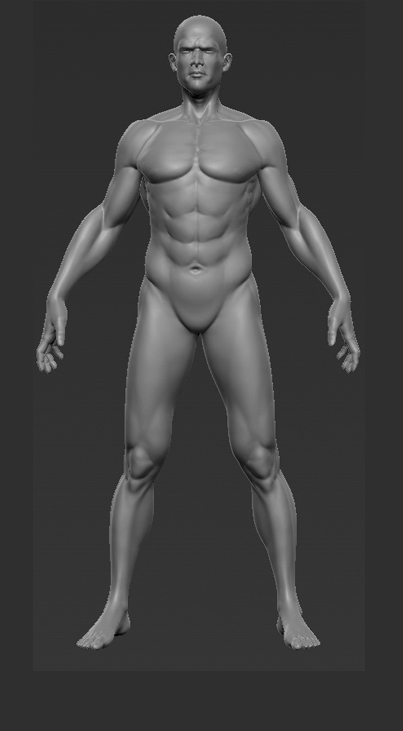
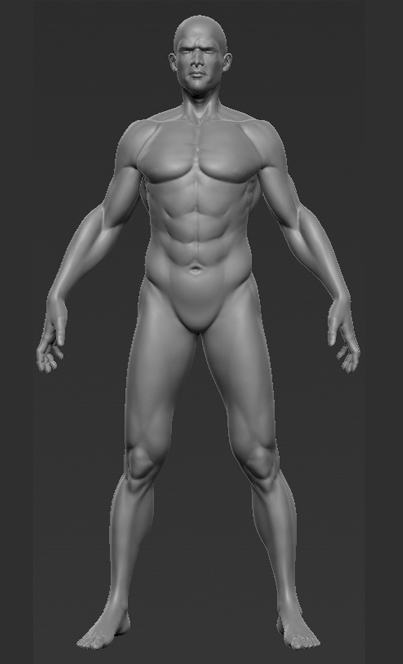
ultimo arreglo WidgetHumano

Changed region(s): [[0.0893, 0.0301, 0.8933, 0.994], [0.4764, 0.0, 0.536, 0.0301]]

diff --git a/Include/widgetHumano.php b/Include/widgetHumano.php
@@ -1,4 +1,4 @@
-<div id="map" style="position:relative; width:403px; height:731px; z-index:0; background-image:url(images/prestaciones.jpg); background-repeat: no-repeat;">
+<div id="map" style="position:relative; width:403px; height:664px; z-index:0; background-image:url(images/prestaciones.jpg); background-repeat: no-repeat;">
     <select id="empresas" style="position:absolute;top:5px;left:255px;">
         <?php
         require_once dirname(__FILE__) . '/../querys/getEmpresa.php';
@@ -125,6 +125,12 @@
         <span class="popovereable label label-danger label-block" id="map-link-21" title="Doppler Carotideo y Vertebral" data-toggle="popover" data-trigger="focus" data-placement="bottom">
             Carotideo y Vertebral
         </span>
+        <span class="popovereable label label-danger label-block" id="map-link-21" title="Doppler Renal" data-toggle="popover" data-trigger="focus" data-placement="bottom">
+            Renal
+        </span>
+        <span class="popovereable label label-danger label-block" id="map-link-21" title="Doppler Hepático" data-toggle="popover" data-trigger="focus" data-placement="bottom">
+            Hepático
+        </span>
         <span class="popovereable label label-danger label-block" id="map-link-21" title="Doppler Venoso de EEII" data-toggle="popover" data-trigger="focus" data-placement="bottom">
             Venoso EEII
         </span>
@@ -136,12 +142,6 @@
         </span>
         <span class="popovereable label label-danger label-block" id="map-link-21" title="Doppler Arterial de EESS" data-toggle="popover" data-trigger="focus" data-placement="bottom">
             Arterial EESS
-        </span>
-        <span class="popovereable label label-danger label-block" id="map-link-21" title="Doppler Renal" data-toggle="popover" data-trigger="focus" data-placement="bottom">
-            Renal
-        </span>
-        <span class="popovereable label label-danger label-block" id="map-link-21" title="Doppler Hepático" data-toggle="popover" data-trigger="focus" data-placement="bottom">
-            Hepático
         </span>
     </div>
     <!--<area shape="circle" coords="580,127" alt="Mano" href="#" title="Prestaciones Mano" data-toggle="popover" data-trigger="focus" data-placement="bottom" >

diff --git a/centros/index.php b/centros/index.php
@@ -5,9 +5,13 @@ include_once dirname(__FILE__) . "/Include/verificacionUsuario.php";
 ?>
 <div class="container-fluid ">
     <div class="row">
-        <div class="col-sm-6 col-sm-offset-3 panel panel-success">
+        <div class="alert alert-info col-sm-3" style="text-align: justify;">
+            <span class="glyphicon glyphicon-info-sign"></span> <u>Utilizaci&oacute;n:</u><br>
+            Mantenga el puntero de su mouse sobre el &aacute;rea que desee para verificar los Tecn&oacute;logos M&eacute;dicos que realizan esta prestaci&oacute;n.
+        </div>
+        <div class="col-sm-6 panel panel-success">
             <div class="panel-heading">
-                <h4>Prestaciones Tm</h4>
+                <h4>Prestaciones Tecn&oacute;logos M&eacute;dicos TMTECNOMED</h4>
             </div>
             <div class='panel-body row-fluid'>
                 <div class='col col-sm-12' style="background: #2F2F2F;">

diff --git a/centros/Include/widgetHumano.php b/centros/Include/widgetHumano.php
@@ -1,4 +1,4 @@
-<div id="map" style="position:relative; width:403px; height:731px; z-index:0; background-image:url(images/prestaciones.jpg); background-repeat: no-repeat;">
+<div id="map" style="position:relative; width:403px; height:664px; z-index:0; background-image:url(images/prestaciones.jpg); background-repeat: no-repeat;">
     <select id="empresas" style="position:absolute;top:5px;left:255px;" disabled>
         <?php
         echo "<option value='$_SESSION[idusuario]'>$_SESSION[usuario]</option>";

diff --git a/index.php b/index.php
@@ -59,7 +59,7 @@ include_once dirname(__FILE__) . "/Include/verificacionUsuario.php";
         <div class="col-sm-6 panel panel-success">
 
             <div class="panel-heading">
-                <h4>Prestaciones Tecn&oacute;logos M&eacute;dicos</h4>
+                <h4>Prestaciones Tecn&oacute;logos M&eacute;dicos TMTECNOMED</h4>
             </div>
             <center>
                 <div id="progress2" class="progress" style="display: none">
